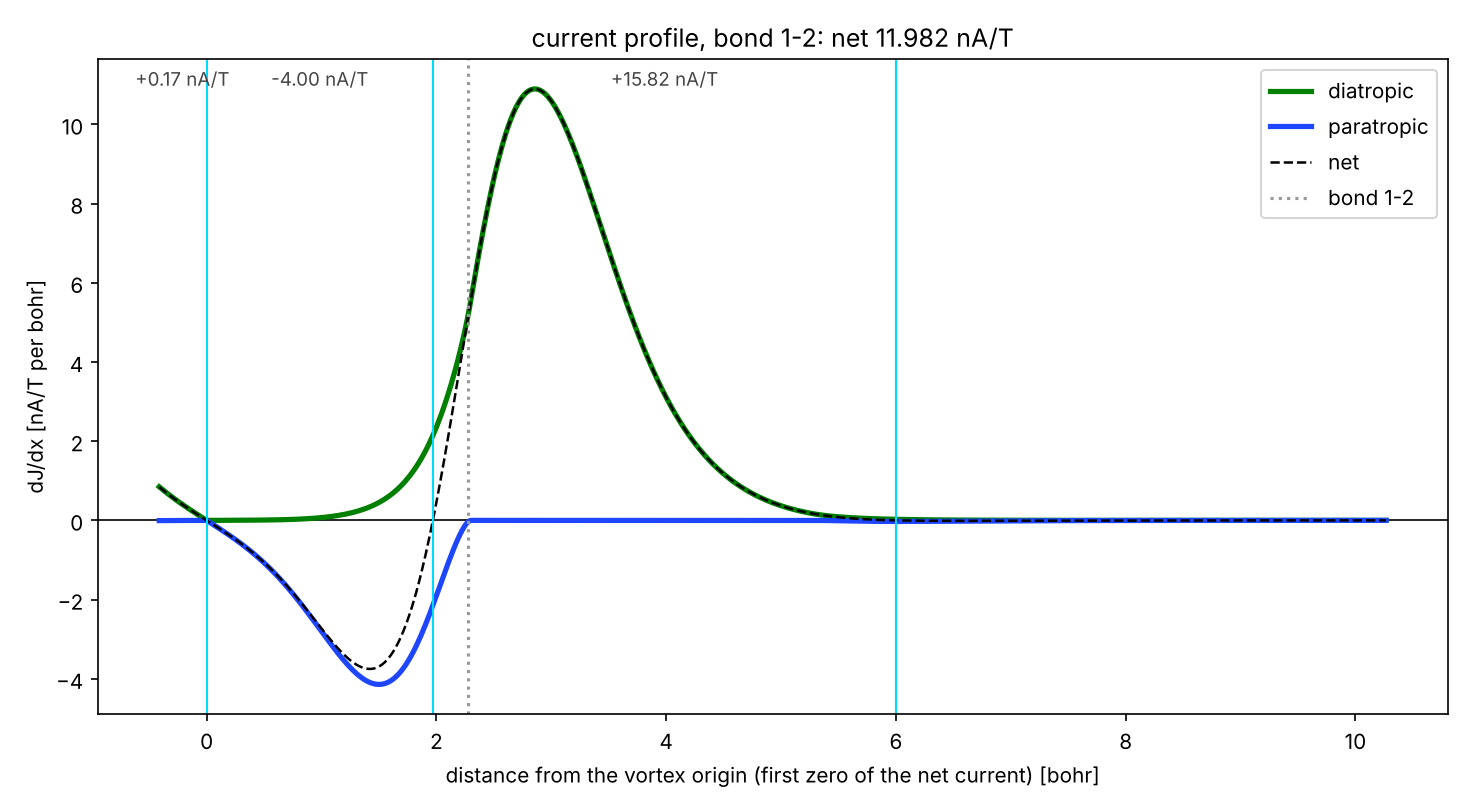
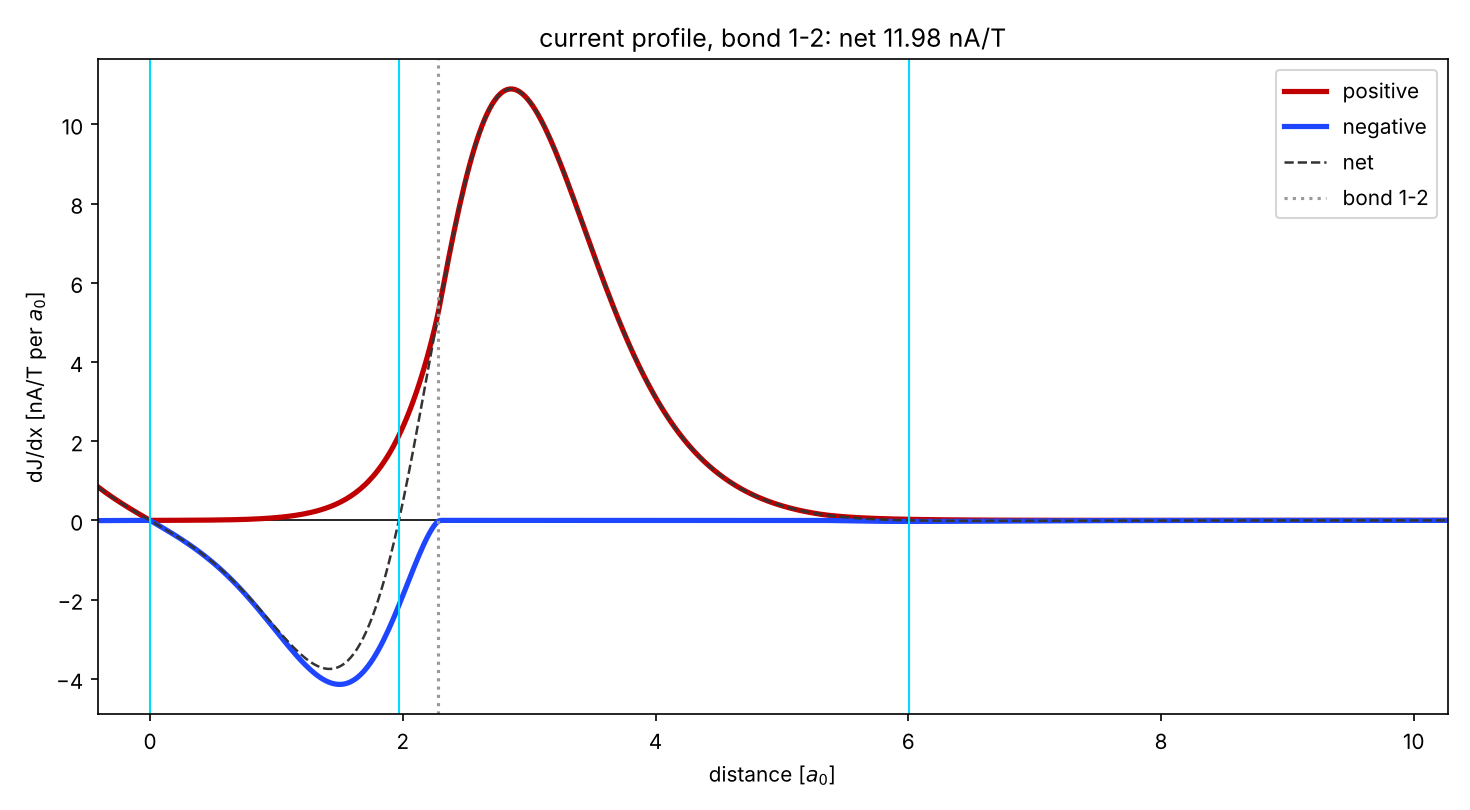
Profile plots: positive/negative instead of tropicity, a_0, tight x range, plain and annotated copies
The contributions are labelled positive and negative, red and blue (a plane
cannot tell the tropicity), the net current is dashed dark grey, lengths
are in a_0, the x axis starts at the first slice, the title rounds to two
decimals, and the current integrated between zero crossings goes to a
separate current_profile_annotated figure. Same labels in profile.dat and
profile_points.dat. Compared profiles are labelled by their bond.

Claude-Session: https://claude.ai/code/session_01DbhqjhRQc4nZSxJveczpod

diff --git a/doc/scripts.rst b/doc/scripts.rst
@@ -103,7 +103,9 @@ Results
 -----------------------------
 
 * ``current_profile.dat``: one line per slice from the start of the
-  integration: distance, net, diatropic and paratropic current (nA/T).
+  integration: distance, net, positive and negative current (nA/T). A plane
+  cannot tell the tropicity of a current; by the sign convention a diatropic
+  ring current comes out positive.
 * ``profile_points.dat``: maxima and minima of the current per bohr, the
   zero crossings of the net current, and the current integrated between
   them: the paratropic current of the ring is the integral from the vortex
@@ -113,13 +115,12 @@ Results
   the description of the output files.
 * ``current_profile.png`` and ``.pdf`` (``vertical_profile.*``,
   ``squares_profile.*``): the plots, made with matplotlib if it is
-  installed. ``gimic-profile --plot DIR`` plots again: ``--zero origin``
+  installed; ``current_profile_annotated.*`` is the same with the current
+  integrated between the zero crossings written along the top. ``gimic-profile --plot DIR`` plots again: ``--zero origin``
   puts x = 0 at the vortex origin, ``--zero bond`` at the bond,
   ``--lines "7 8 9"`` draws a vertical line at the centroid of these atoms,
   ``--compare DIR2 DIR3`` overlays the net current of other profiles,
-  ``--yrange`` sets the y range, ``--angstrom`` labels in Ångström. The
-  numbers along the top of the plot are the current integrated between
-  consecutive zero crossings of the net current.
+  ``--yrange`` sets the y range, ``--angstrom`` labels in Ångström.
 
 Examples: benzene, bond 1-2, start 0.4 bohr past the ring centre, 0.02 bohr
 slices (``--zero origin``); the squares profile with 0.25 bohr squares; and
